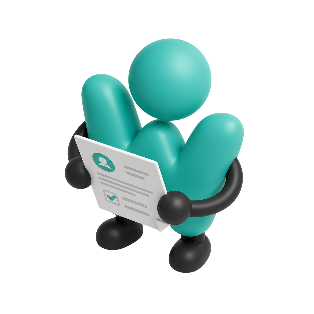
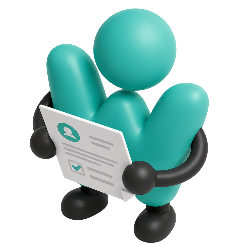
style: WTH-557 피드백 폼과 완료 화면 간격을 Figma에 맞춤
Figma(16067:95816/96074, 16070:106201/106266) 측정값 기준:
- 데스크톱 본문 18px 들여쓰기, 배너→제목·입력창→버튼 40px
- 모바일 제목줄→배너 0, 배너→제목·문구→입력창 16px, 전송 버튼 하단 고정
- 안내 문구·입력창 Body1, 입력창 모서리 12px, 글자 수 카운터 제거
- 완료 제목 Sub1, 문구→버튼 56px, 일러스트를 Figma 프레임 비율로 재구성

diff --git a/src/components/mypage/feedback/FeedbackForm.tsx b/src/components/mypage/feedback/FeedbackForm.tsx
@@ -2,7 +2,6 @@
 
 import { useState } from 'react';
 import { isAxiosError } from 'axios';
-import { CharacterCountRow } from '@/components/mypage/CharacterCountRow';
 import { FeedbackBanner } from '@/components/mypage/feedback/FeedbackBanner';
 import { Button } from '@/components/ui/Button';
 import { Textarea } from '@/components/ui/Textarea';
@@ -65,36 +64,38 @@ function FeedbackForm({ onSubmitted, className, ...props }: FeedbackFormProps) {
 
   return (
     <form
-      className={cn('flex flex-col gap-800', className)}
+      // Figma 기준 간격: 데스크톱은 본문 18px 들여쓰기·입력창→버튼 40px, 모바일은 전송 버튼을 하단에 고정한다.
+      className={cn('tablet:gap-800 tablet:p-450 flex flex-col pb-[120px]', className)}
       onSubmit={handleSubmit}
       noValidate
       {...props}
     >
-      <div className="flex flex-col gap-600">
+      <div className="tablet:gap-800 flex flex-col gap-400">
         <FeedbackBanner />
-        <div className="flex flex-col gap-200">
-          <h2 className="typo-h3 text-text-strong">Weeth에 바라는 점이 있나요?</h2>
-          <p className="typo-body1 tablet:typo-body2 text-text-normal whitespace-pre-line">
-            {
-              'Weeth를 사용하면서 아쉬웠던 점이나\n새롭게 필요한 기능이 있나요?\n남겨주시면 더 나은 Weeth를 만드는 데 참고할게요 :)'
-            }
-          </p>
-        </div>
-        <div className="flex flex-col gap-200">
+        <div className="tablet:gap-600 flex flex-col gap-400">
+          <div className="flex flex-col gap-200">
+            <h2 className="typo-h3 text-text-strong">Weeth에 바라는 점이 있나요?</h2>
+            <p className="typo-body1 text-text-normal whitespace-pre-line">
+              {
+                'Weeth를 사용하면서 아쉬웠던 점이나\n새롭게 필요한 기능이 있나요?\n남겨주시면 더 나은 Weeth를 만드는 데 참고할게요 :)'
+              }
+            </p>
+          </div>
           <Textarea
             aria-label="서비스 피드백 내용"
             placeholder="의견을 자유롭게 남겨주세요."
             value={values.content}
             onChange={(event) => setValues((prev) => ({ ...prev, content: event.target.value }))}
             maxLength={FEEDBACK_CONTENT_MAX_LENGTH}
-            className="tablet:min-h-[175px] min-h-[328px] rounded-lg px-400 py-300"
+            className="typo-body1 tablet:min-h-[175px] min-h-[329px] rounded-md p-300"
           />
-          <CharacterCountRow value={values.content} maxLength={FEEDBACK_CONTENT_MAX_LENGTH} />
         </div>
       </div>
-      <Button type="submit" size="lg" className="w-full" disabled={isSubmitDisabled}>
-        전송
-      </Button>
+      <div className="tablet:static tablet:z-auto tablet:p-0 fixed inset-x-0 bottom-12 z-20 px-450">
+        <Button type="submit" size="lg" className="w-full" disabled={isSubmitDisabled}>
+          전송
+        </Button>
+      </div>
     </form>
   );
 }

diff --git a/src/components/mypage/feedback/__tests__/FeedbackPageContent.test.tsx b/src/components/mypage/feedback/__tests__/FeedbackPageContent.test.tsx
@@ -68,7 +68,8 @@ describe('FeedbackPageContent', () => {
     ).toBeInTheDocument();
     expect(getTextarea()).toHaveAttribute('placeholder', '의견을 자유롭게 남겨주세요.');
     expect(getTextarea()).toHaveAttribute('maxLength', String(FEEDBACK_CONTENT_MAX_LENGTH));
-    expect(screen.getByText(`0/${FEEDBACK_CONTENT_MAX_LENGTH}`)).toBeInTheDocument();
+    // Figma에 글자 수 카운터가 없어 입력 제한(maxLength)만 확인한다.
+    expect(screen.queryByText(`0/${FEEDBACK_CONTENT_MAX_LENGTH}`)).not.toBeInTheDocument();
     expect(trackFeedbackOpened).toHaveBeenCalledWith({
       variant: 'settings',
       clubId: 'test-club-id',
@@ -103,13 +104,12 @@ describe('FeedbackPageContent', () => {
       expect(getSubmitButton()).toBeDisabled();
     });
 
-    it('내용을 입력하면 활성화되고 글자 수가 갱신된다', async () => {
+    it('내용을 입력하면 활성화된다', async () => {
       const { user } = renderPage();
 
       await user.type(getTextarea(), '좋아요');
 
       expect(getSubmitButton()).toBeEnabled();
-      expect(screen.getByText(`3/${FEEDBACK_CONTENT_MAX_LENGTH}`)).toBeInTheDocument();
     });
   });
 

diff --git a/src/components/mypage/feedback/FeedbackComplete.tsx b/src/components/mypage/feedback/FeedbackComplete.tsx
@@ -10,13 +10,14 @@ interface FeedbackCompleteProps extends React.HTMLAttributes<HTMLDivElement> {
 function FeedbackComplete({ onRewrite, className, ...props }: FeedbackCompleteProps) {
   return (
     <div
-      className={cn('tablet:pt-400 flex flex-col items-center gap-700 pt-[88px]', className)}
+      // Figma 기준: 제목줄에서 일러스트까지 모바일 114px·데스크톱 34px(본문 18 + 16), 문구→버튼 56px(16 + 40).
+      className={cn('tablet:pt-[34px] flex flex-col items-center gap-800 pt-[114px]', className)}
       {...props}
     >
-      <div className="flex flex-col items-center gap-400">
+      <div className="flex flex-col items-center gap-400 pb-400">
         <Image src={FeedbackCompleteImage} alt="" width={120} height={120} />
         <div className="flex flex-col items-center gap-200 text-center">
-          <p className="typo-sub3 text-text-strong">피드백이 전달됐어요!</p>
+          <p className="typo-sub1 text-text-strong">피드백이 전달됐어요!</p>
           <p className="typo-body2 text-text-alternative">소중한 의견 감사합니다.</p>
         </div>
       </div>

diff --git a/src/components/mypage/feedback/FeedbackPageContent.tsx b/src/components/mypage/feedback/FeedbackPageContent.tsx
@@ -22,7 +22,7 @@ function FeedbackPageContent({ className, ...props }: FeedbackPageContentProps) 
   }, [clubId]);
 
   return (
-    <div className={cn('flex min-w-0 flex-1 flex-col gap-4', className)} {...props}>
+    <div className={cn('tablet:gap-4 flex min-w-0 flex-1 flex-col', className)} {...props}>
       <div className="tablet:py-0 flex items-center gap-1 py-300">
         <button
           type="button"
